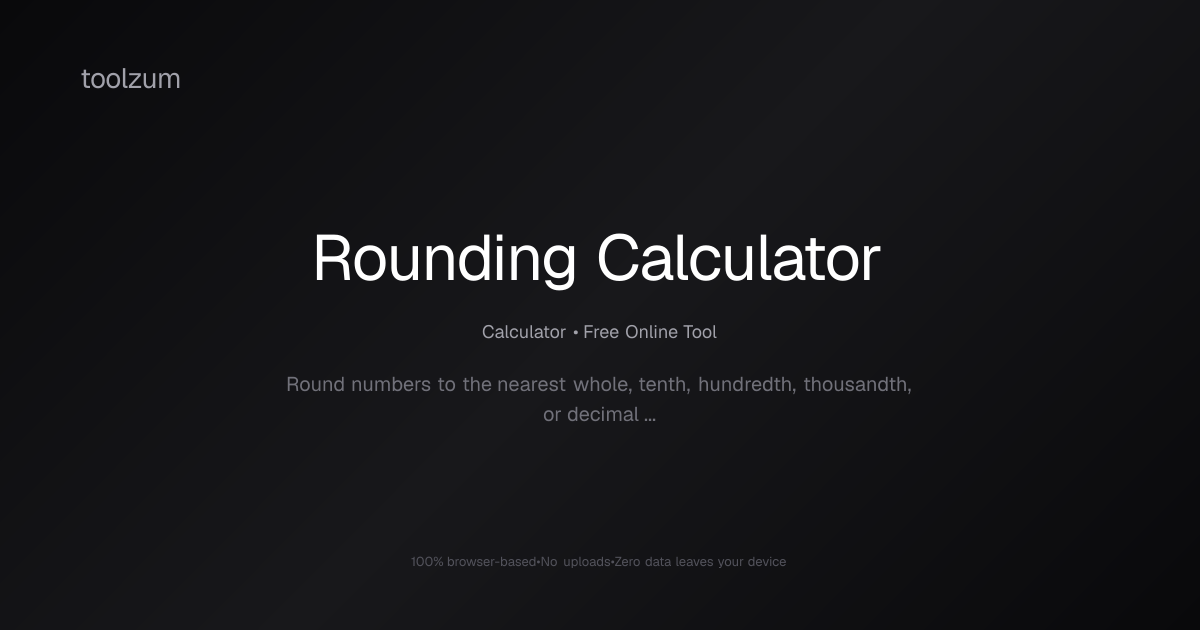
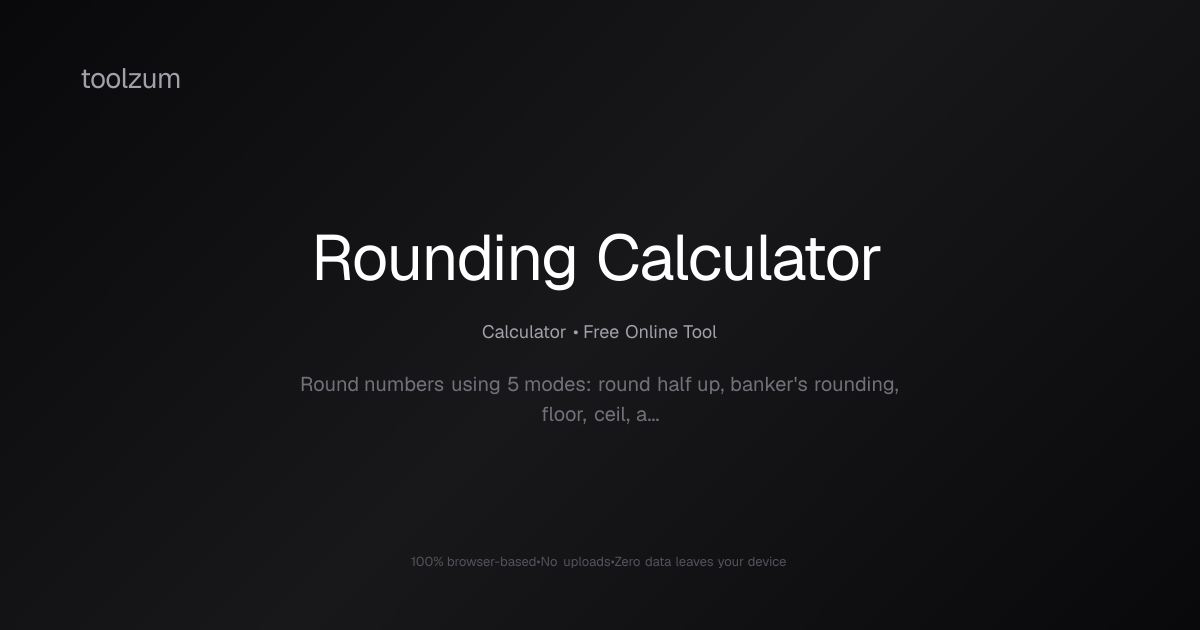
chore: build artifacts — OG images + redirects for time-converter consolidation
- gen:og removed OG images for 3 deleted time converter clones
- gen:redirects added redirects for removed slugs
- site-data.generated.ts updated to match registry

Changed region(s): [[0.2467, 0.6032, 0.7708, 0.6937]]

diff --git a/src/registry/site-data.generated.ts b/src/registry/site-data.generated.ts
@@ -17,13 +17,13 @@ export interface MegamenuColumn {
   isIndia: boolean;
 }
 
-export const TOOL_COUNT = 1152;
+export const TOOL_COUNT = 1149;
 
 export const SITE_STATS = {
-  totalImplemented: 1068,
-  freeTierTotal: 1030,
-  localTools: 1030,
-  cloudTools: 31,
+  totalImplemented: 1065,
+  freeTierTotal: 1027,
+  localTools: 1026,
+  cloudTools: 32,
   hybridTools: 4,
 } as const;
 
@@ -357,7 +357,7 @@ export const MEGAMENU_COLUMNS: MegamenuColumn[] = [
         "href": "/utility/dice-roller"
       }
     ],
-    "allCount": 86,
+    "allCount": 83,
     "allHref": "/utility",
     "isIndia": false
   },

diff --git a/docs/TODO-TRACKER.md b/docs/TODO-TRACKER.md
@@ -20,15 +20,15 @@ Last updated: 2026-08-23
 - [x] 8. Thin-tool audit — merged 3 time converter clones into bidirectional time-converter; upgraded rounding calculator (5 modes + step display); upgraded modulo calculator (JS/Python semantics + long-division); added FAQs for all 3 (commit a796dcc)
 
 ## Mechanical (proven playbook, no decision needed)
-- [ ] 13. FAQ rollout — GSC "crawled, not indexed" is the priority signal, not raw traffic. Cross-reference the 174/220-tool flagged list against current indexing status. Tier 1 (improve category templates) first, then GSC-flagged tools, then general rollout at relaxed pace
-- [ ] 14. Developer dedup — API Response Formatter ≈ JSON Formatter, HTTP Status ≈ API Error Decoder. Same 301-redirect playbook as earlier duplicate clusters (curl-to-code, video-pair, YAML pair)
-- [ ] 15. Calculator consolidation — Square Root, Rectangle Area, Triangle Area, Pythagorean Theorem, Leap Year, Day of Year all redundant with Geometry/Scientific calculators. Redirect or merge
-- [ ] 16. Transcription reclassification — rename "Audio to Text" / "Video to Text" to "Transcript Formatter" or similar. They're text post-processors, not speech-to-text. Fix name + description, no structural change
+- [ ] 13. FAQ rollout — Tier 1 done (category templates personalized, commit 296e435). Still pending: custom FAQs for GSC "crawled, not indexed" flagged tools, then general volume rollout. Weekend task.
+- [x] 14. ~~Developer dedup~~ — api-response-formatter → json-formatter, api-error-decoder → http-status-code-checker (commit 0b3b4c0)
+- [x] 15. ~~Calculator consolidation~~ — 6 tools redirected to geometry/scientific/date calculators (commit 0b3b4c0)
+- [x] 16. ~~Transcription reclassification~~ — Renamed to "Audio Transcript Formatter" / "Video Transcript Formatter", fixed descriptions (commit 0b3b4c0)
 - [x] 17. ~~Branding AI-claim fix~~ — Already fixed. deps was "None" (now "AI API"), UI saying "AI-powered" is accurate (tool uses useAiProvider). Auto-generated FAQ now correctly states API key required. (commit ed11ea6)
 
 ## Immediate actions
-- [ ] 23. Improve 6 category FAQ templates in ToolPageSEOContent.tsx (Tier 1 — raises floor for all 818 tools without custom FAQs)
-- [ ] 24. Submit IndexNow / re-validate GSC for latest fixes (classifier, trust bugs, related-tools)
+- [x] 23. ~~Improve 6 category FAQ templates in ToolPageSEOContent.tsx~~ — Templates now personalized per tool (name, description in first2 questions). All818 tools get unique FAQ text, breaking duplicate content pattern. (commit 296e435)
+- [ ] 24. Submit IndexNow / re-validate GSC for latest fixes (classifier, trust bugs, related-tools, FAQ content)
 
 ## GSC monitoring (time-gated)
 - [ ] 19. Submit IndexNow / re-validate GSC for this round of fixes (classifier, trust bugs, related-tools, FAQ content) — free nudge, do now
@@ -41,6 +41,8 @@ Last updated: 2026-08-23
 
 ## Prevention (ongoing)
 - [ ] 25. Add lint check: new tools without `faqs` field in registry trigger a warning. Prevents future818-tool backlog. Bake into the tool-addition checklist.
+- [ ] 26. Add quality gate script: detect generic FAQ text, duplicate FAQ hashes, thin components (<40 lines), one-way converters missing bidirectional UI, identical description/seoDescription. Run as part of content integrity test suite before every commit.
+- [ ] 27. Add category-slug validation: maintain a known-good slug→category mapping, flag mismatches at build time. Catches miscategorized tools before they ship.
 
 ## Business decisions (separate thread)
 - [ ] 9. Email capture — where do signups go?
